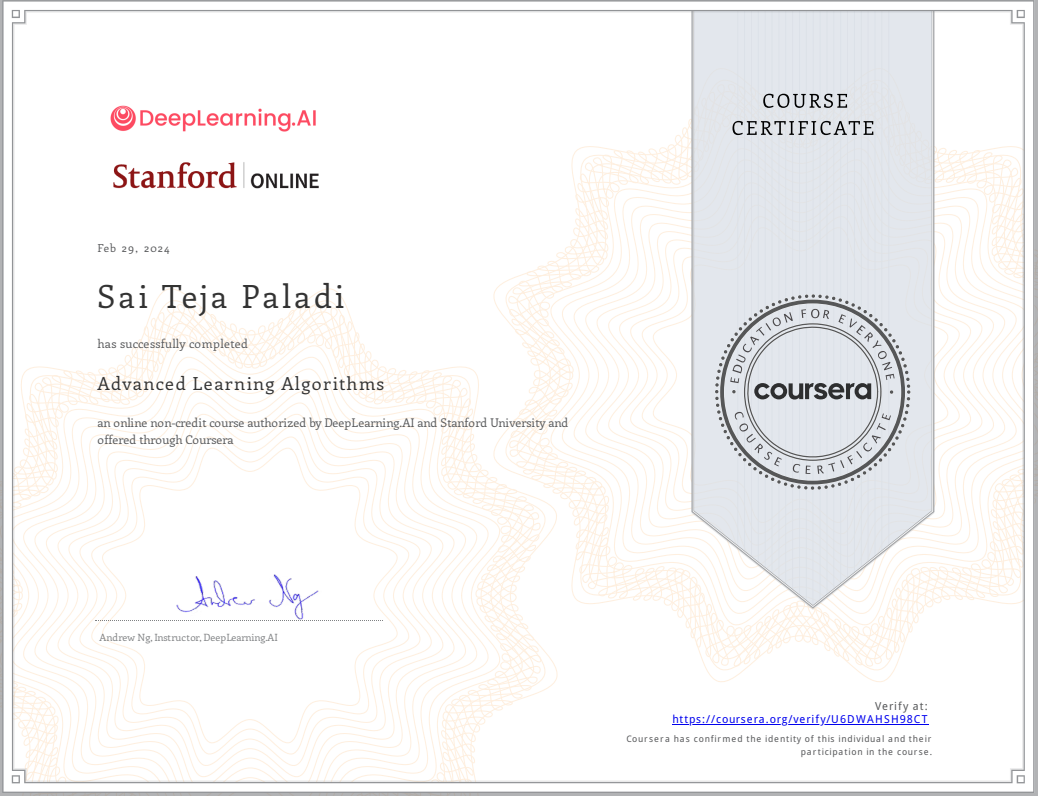
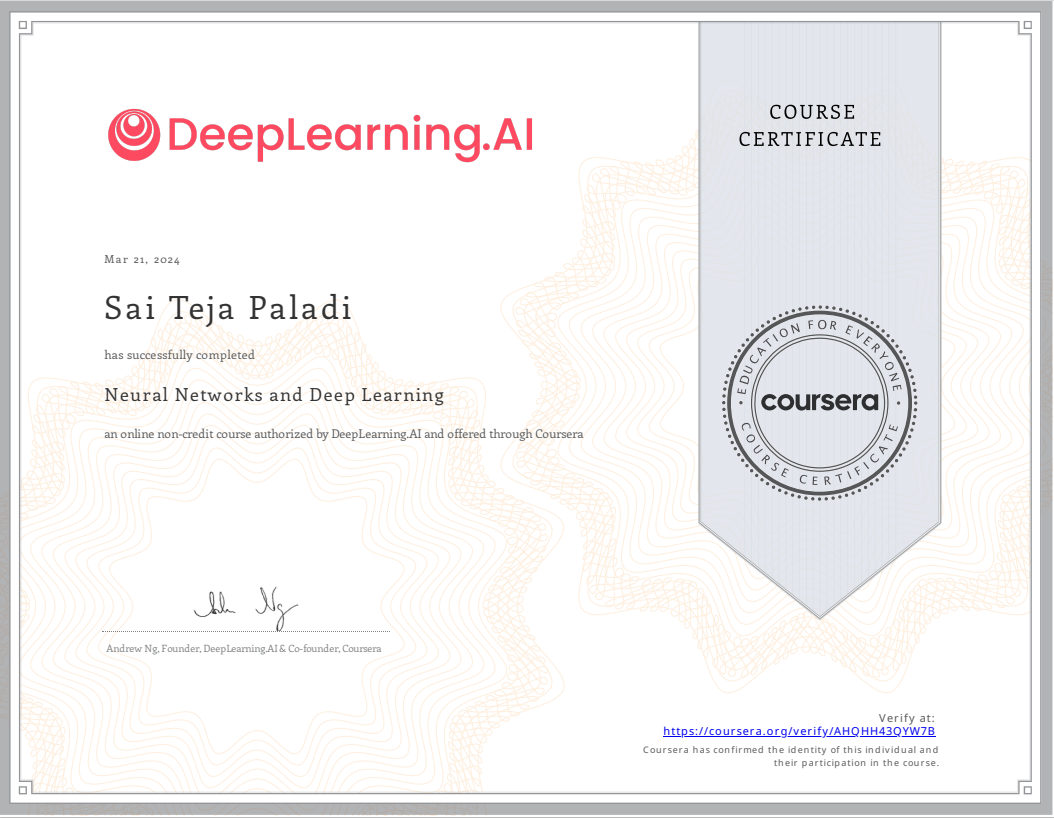
test

diff --git a/src/editable-stuff/config.js b/src/editable-stuff/config.js
@@ -139,12 +139,12 @@ const certifications = {
   heading: "Certifications",
   data: [
     {
-      title: "Supervised Machine Learning: Regression and Classification",
+      title: "Machine Learning",
       // details: "An online non-credit course authorized by DeepLearning.AI and Stanford University and offered through Coursera.",
       image: smlPngImage
     },
     {
-      title: "Advanced Learning Algorithms",
+      title: "Neural Networks and Deep Learning",
       // details: "An online non-credit course authorized by DeepLearning.AI and Stanford University and offered through Coursera.",
       image: alaPngImage
     },
